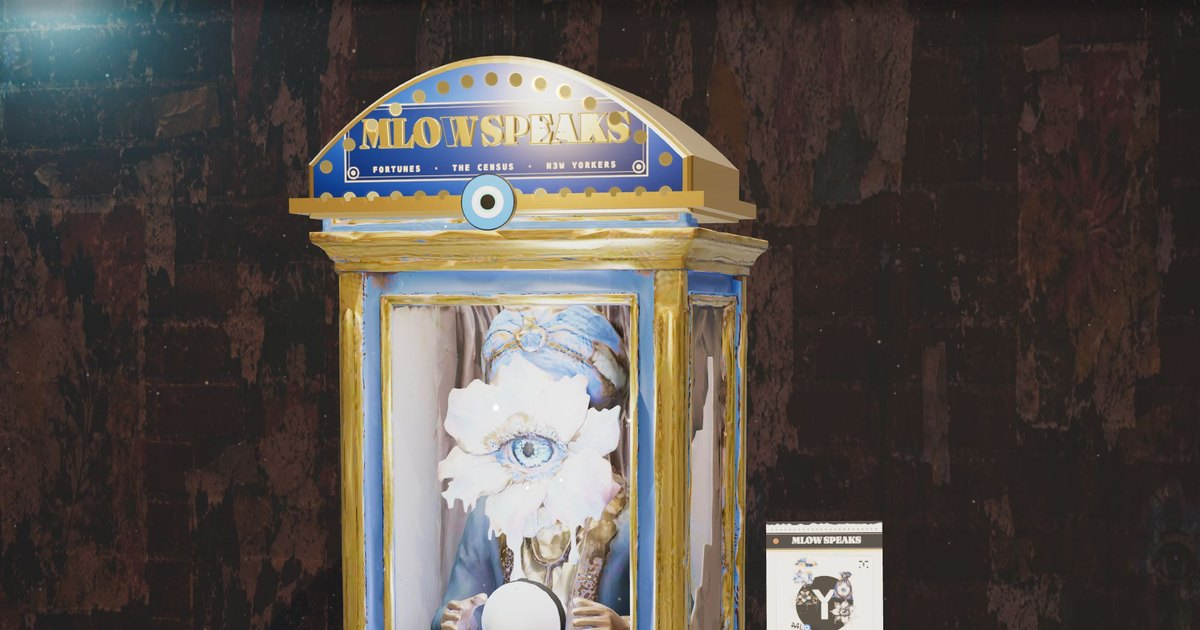
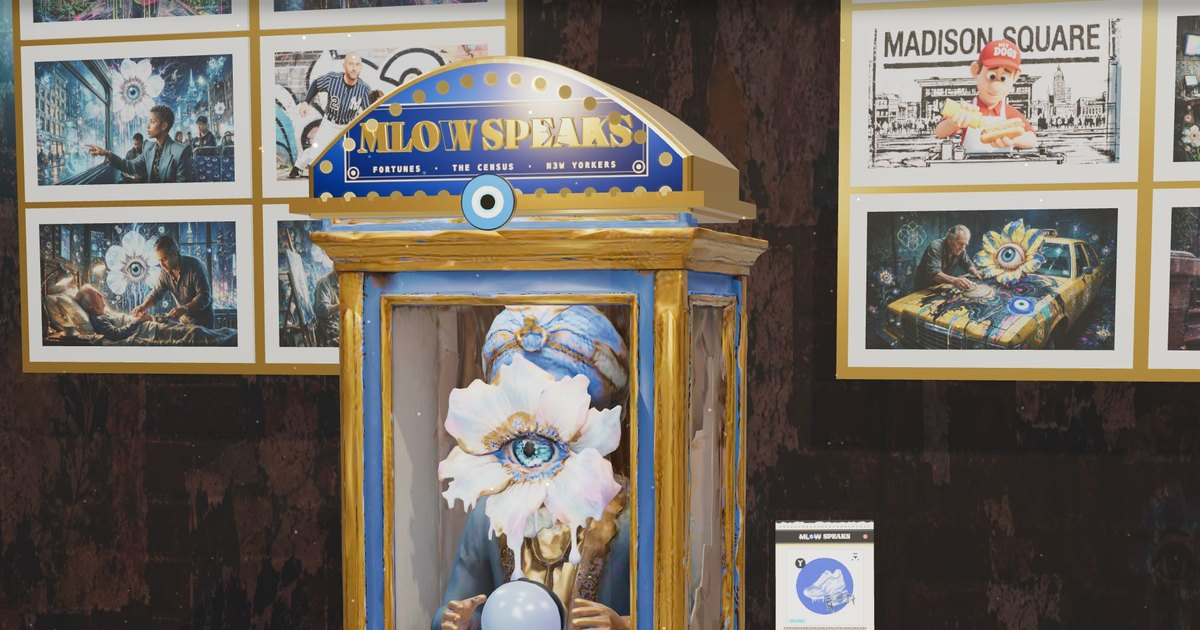
MLOW SPEAKS: the share card shows the relit booth
Snapshot of the site repository on top of the previous mlowtar snapshot.

diff --git a/HANDOFF.md b/HANDOFF.md
@@ -122,8 +122,9 @@ of the card slot, names a room of the museum to go stand in, and talks back when
   window layout cuts ten shapes instead of five. `export const __G` at the foot of ticket.js is for the glyph
   sheet (scratchpad `glyph_sheet.html`: every glyph in ink, then every glyph as a mask); nothing on the site
   imports it. Tickets re-rendered from the shelf will pick different glyphs than before this pass (the theme
-  rows changed), the seed and the rest of the composition are unchanged. og.jpg still shows the old
-  overexposed booth and was not recaptured.
+  rows changed), the seed and the rest of the composition are unchanged. og.jpg was recaptured on
+  2026-10-13 with the relit booth (same framing: 1700 x 900 headless page mid consult, clip 130,70 1000 x 525 at 2x,
+  resized to 1200 x 630).
 - Not done, by choice: Art Blocks style onchain randomness. The seed is `hash(question + minute)`, which is
   what a shared link replays; when MLow wants it onchain the ticket renderer is already deterministic from one
   integer.
